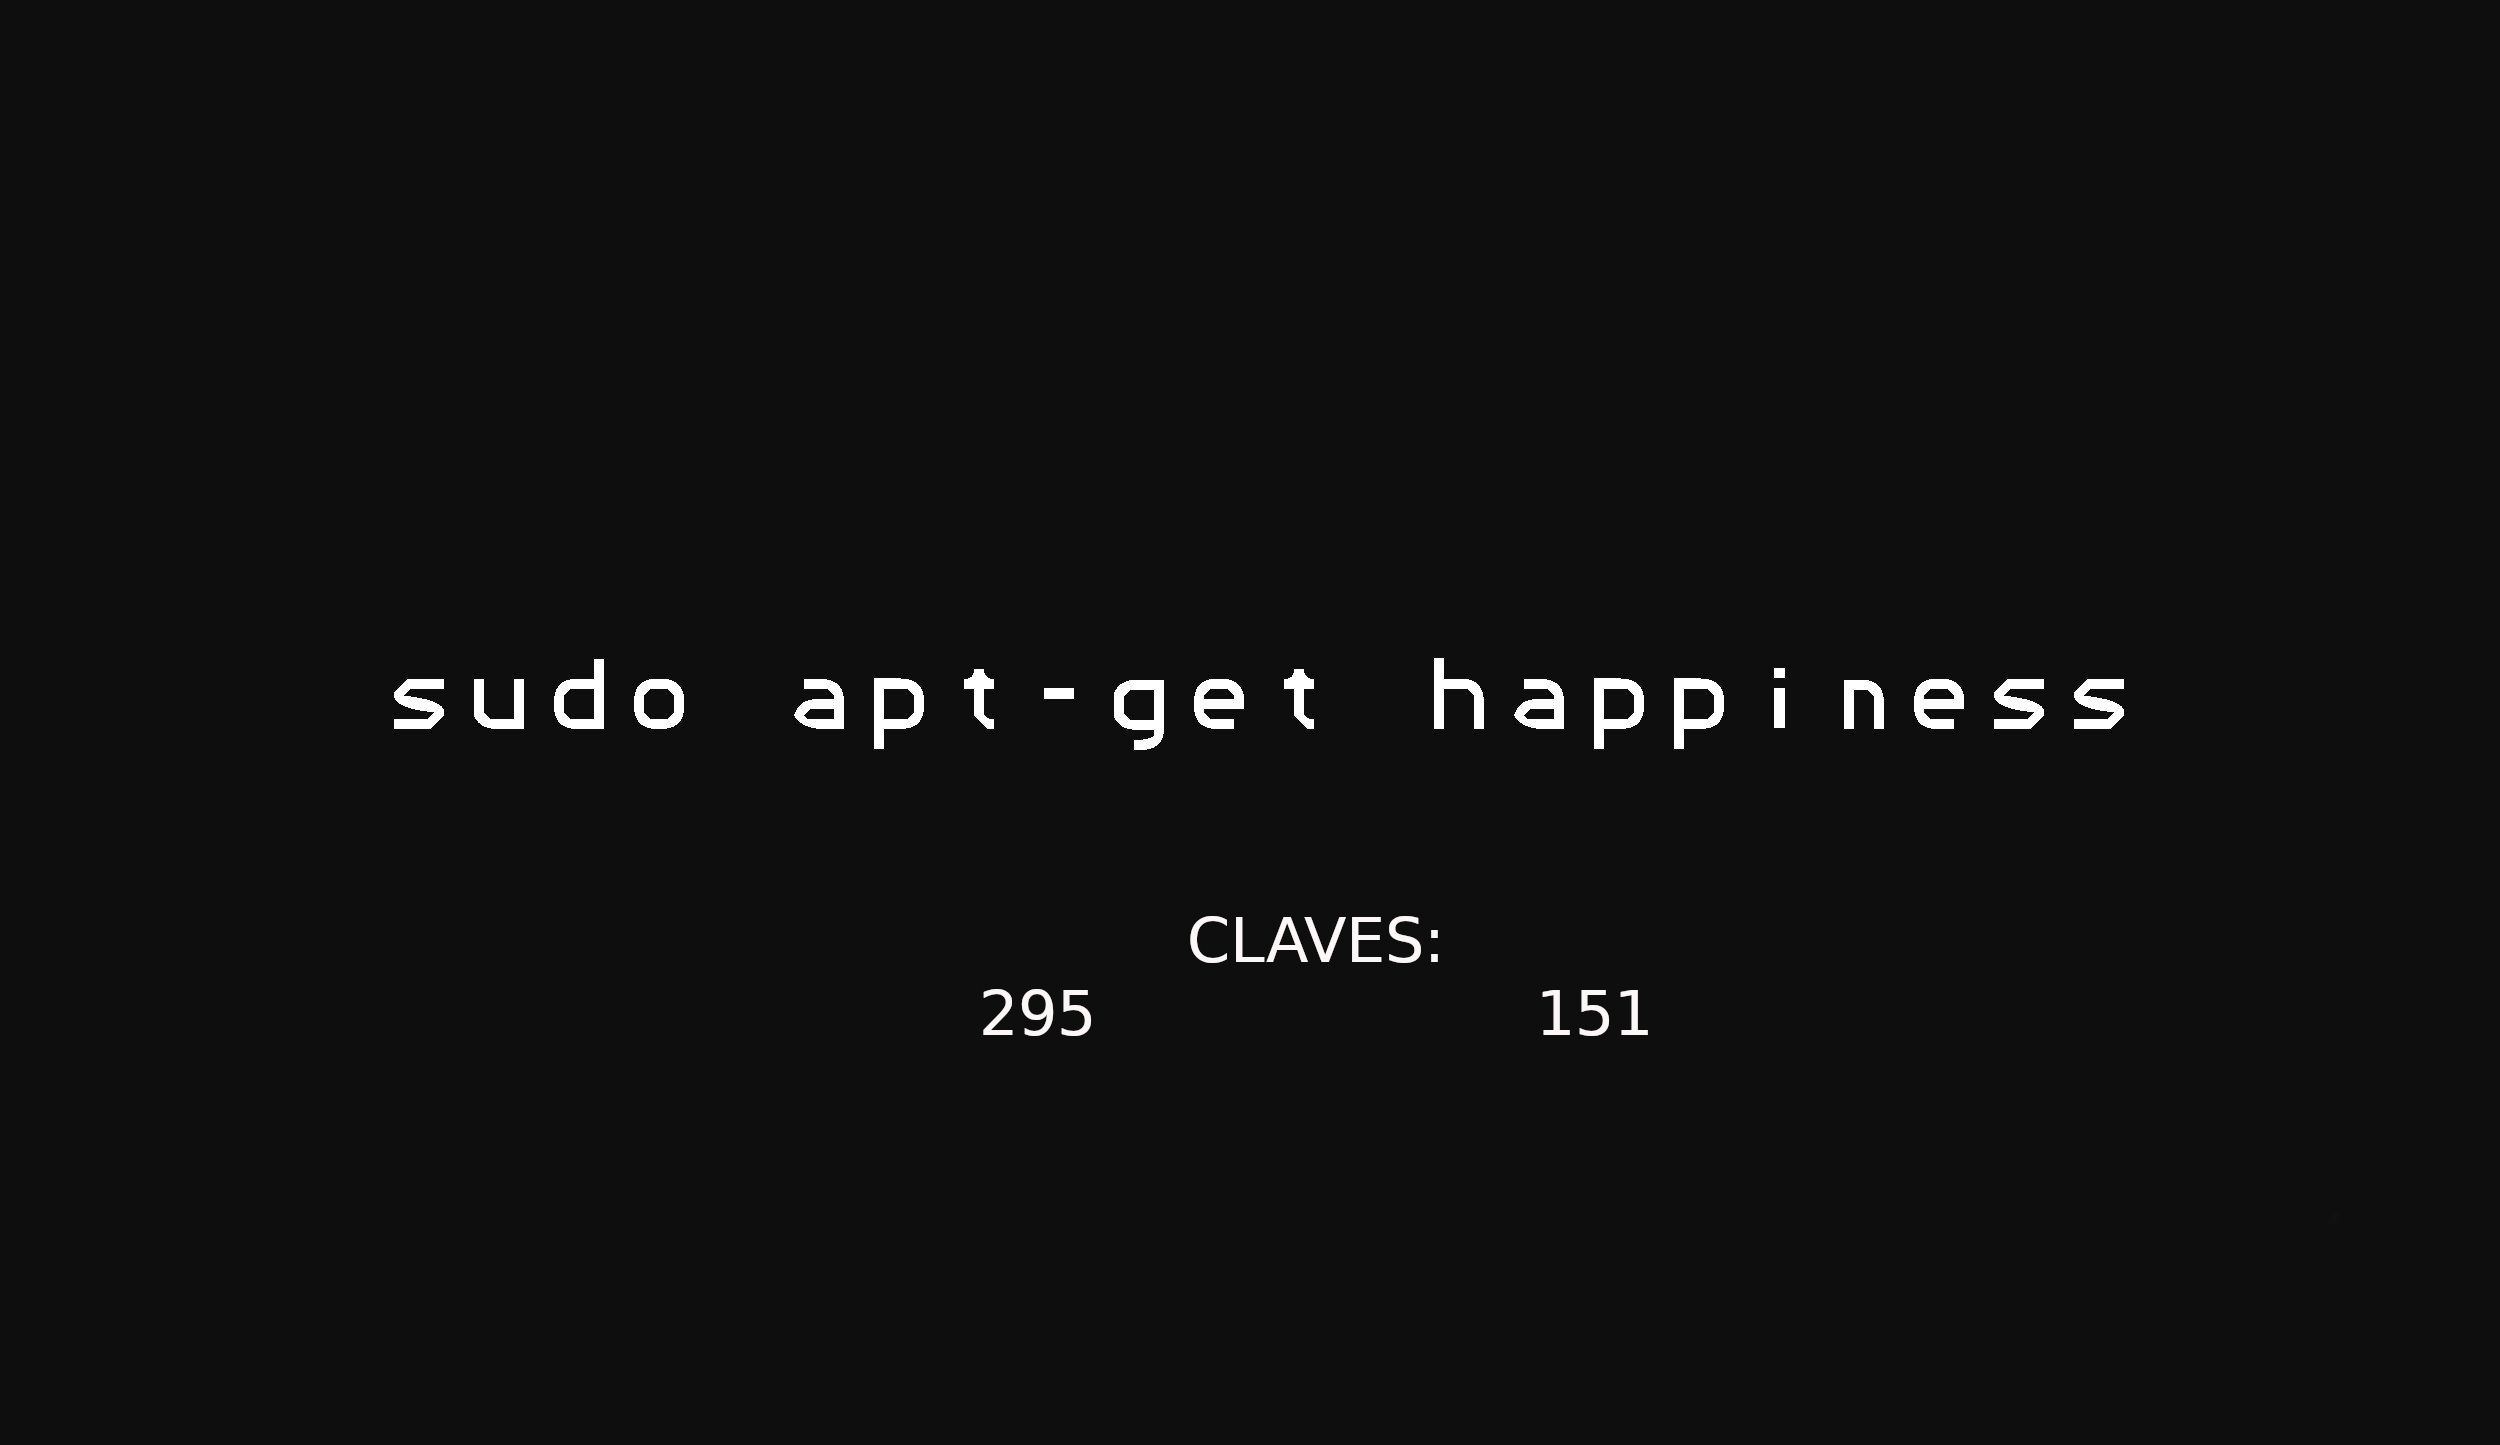
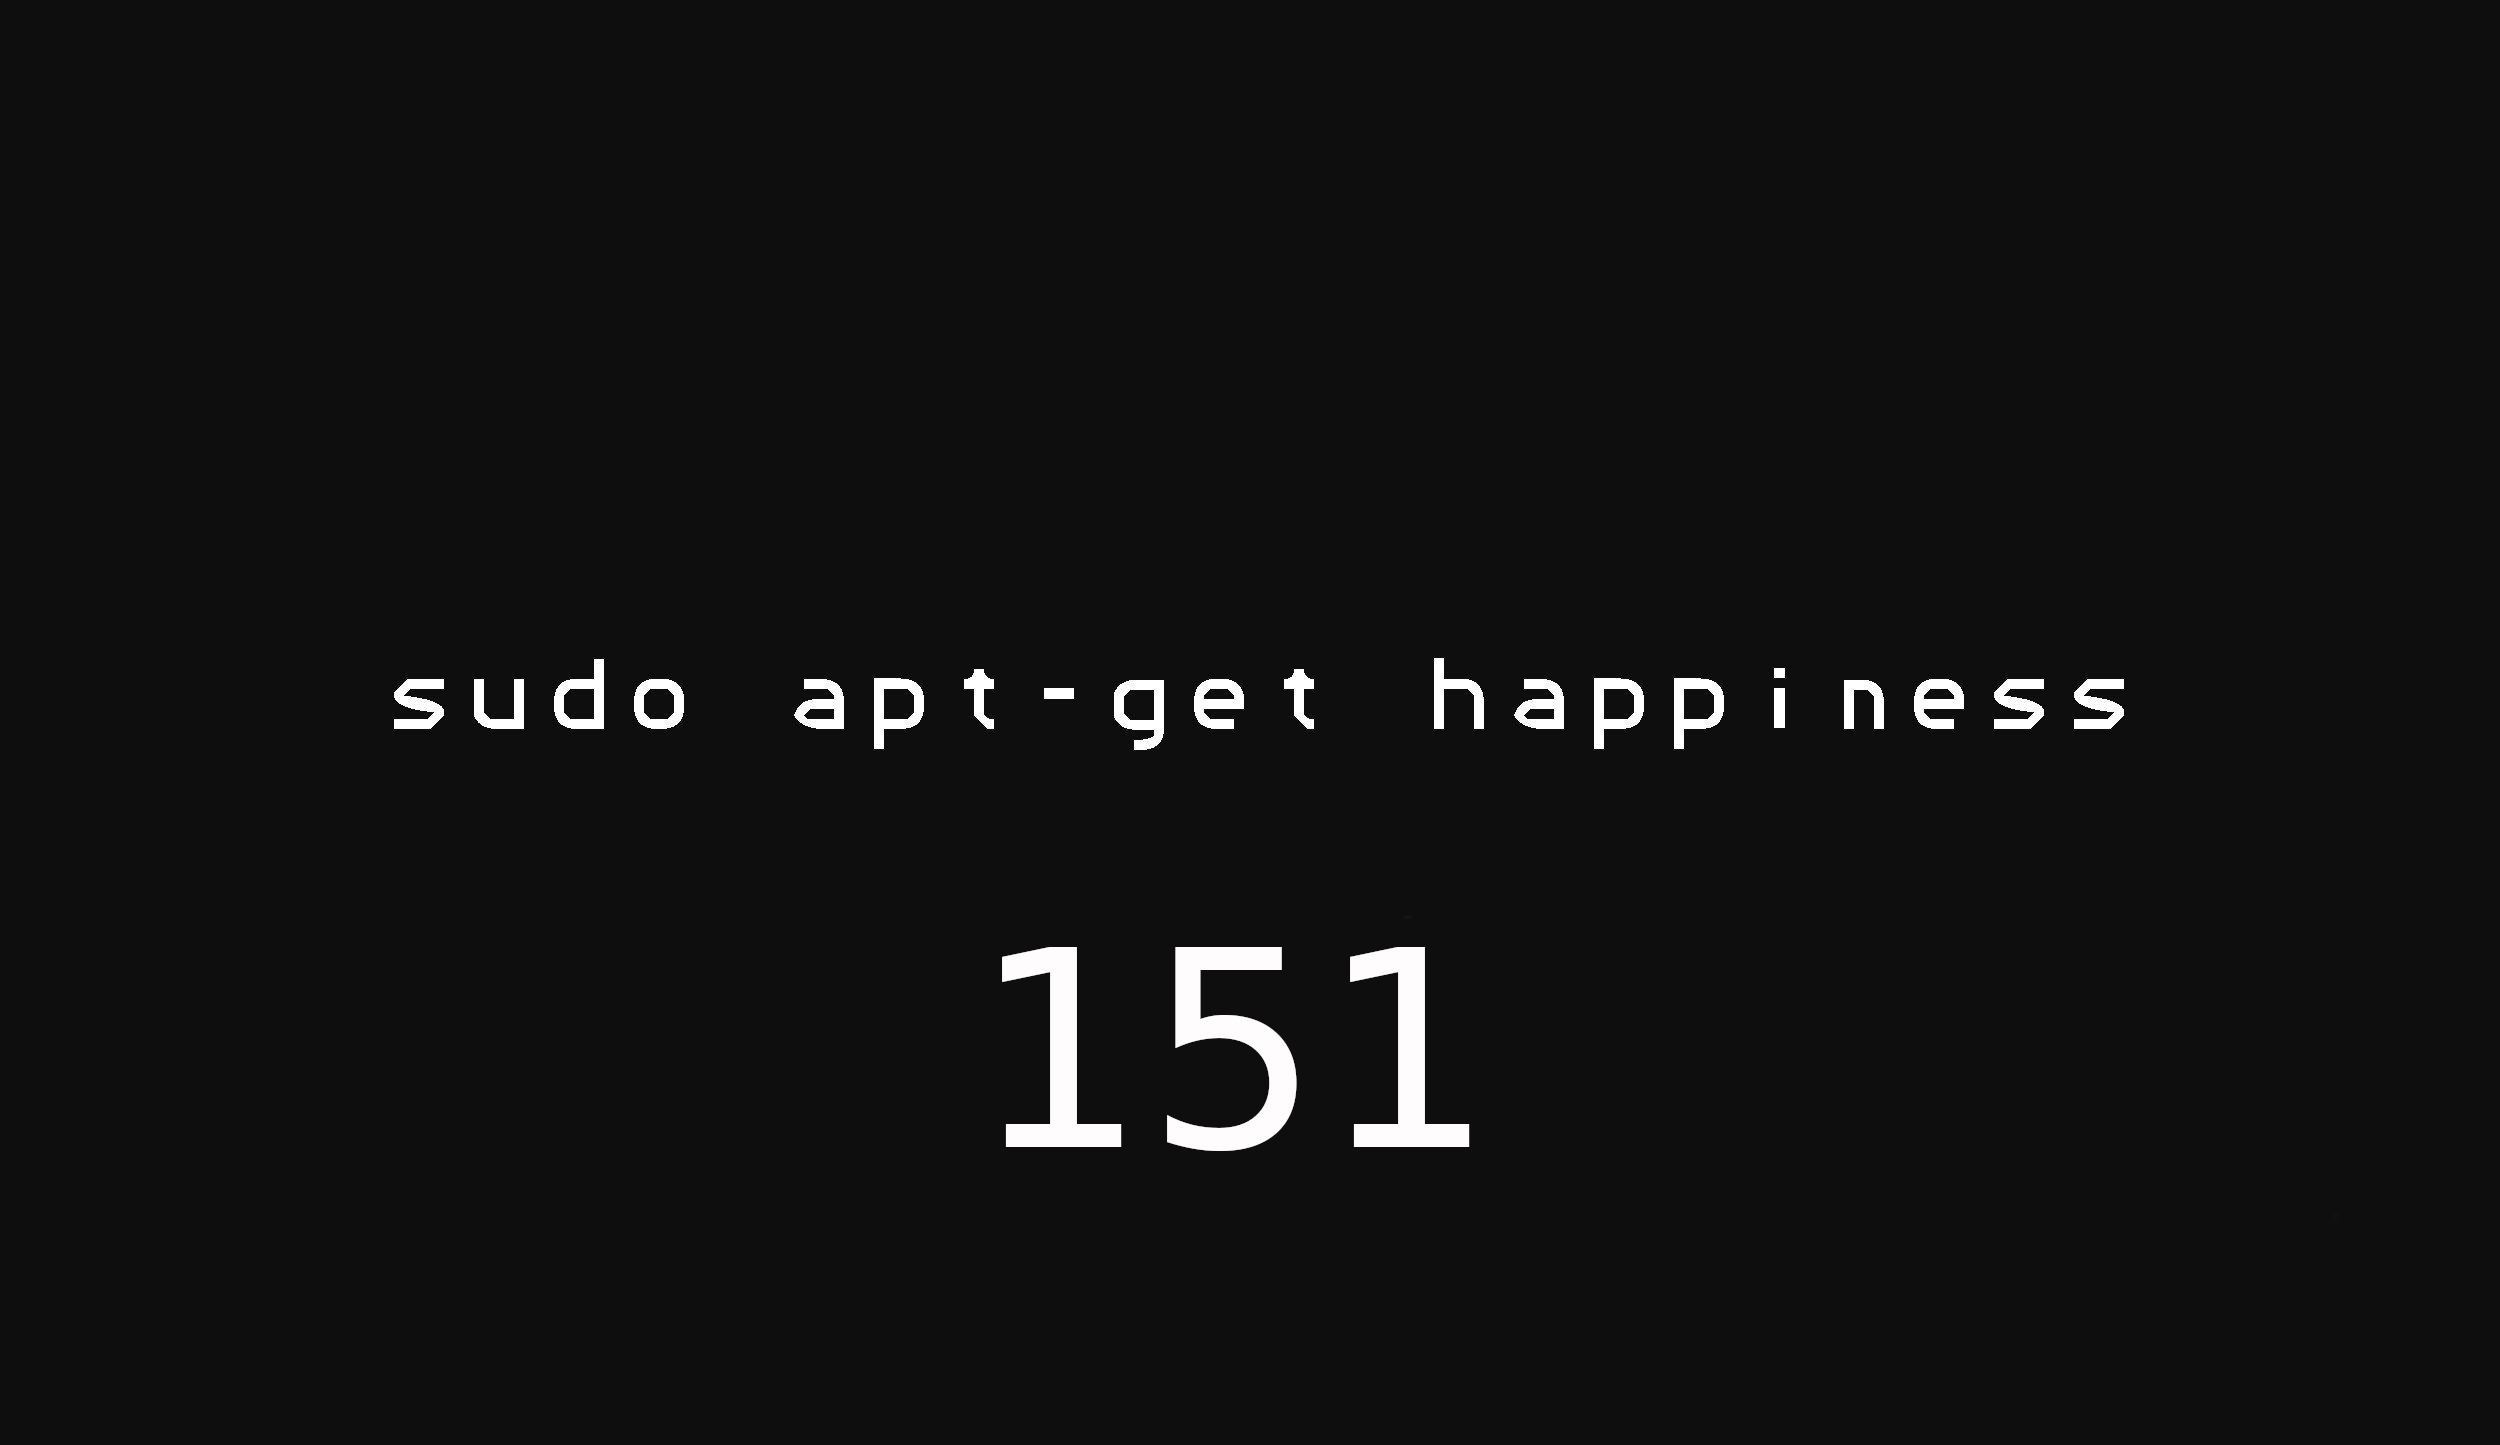
Upload requirements

Changed region(s): [[0.3744, 0.6228, 0.6552, 0.8097]]

diff --git a/app.py b/app.py
@@ -33,32 +33,21 @@ if submit_m1:
         st.balloons()
         l, c, r = st.columns(3)
         c.success("🎉 AQUÍ ESTÁ A TÚA CLAVE!")
-
+        c.info('##   🎉🎉 295 ')
         st.image('images/puzzle.png', width=720)
+    else:
+        st.error('# SEGUIR PROBANDO')
 st.write('## Segunda proba')
-left, right = st.columns(2)
 
-right.info('MISIÓN 1: ' + r'$x = \frac{p + g}{2}$')
-right.write(r'$p = $Total de xente no crebacabezas')
-right.write(r'$w = $Total de mulleres no crebacabezas')
-right.write(r'$m = $Total homes no crebacabezas')
-right.write(r'$b = $Total de nenos no crebacabezas')
-right.write(r'$g = $Total de nenas no crebacabezas')
+form_m2 = st.form('template_2')
+resp1 = '7'
 
-form = left.form('template_form2')
+q1 = form_m2.text_input("¿Cantos símbolos de Planeswalker hai no crebacabezas?")
 
-q1 = form.text_input("Misión 1")
-q2 = form.text_input("¿Cantos símbolos de Planeswalker hai no crebacabezas?")
-q3 = form.text_input('Con los dedos de las manos y los dedos de los pies ....')
-
-submit = form.form_submit_button('DÁME A CLAVE')
-
-resp1 = '22'
-resp2 = '7'
-resp3 = '23'
+submit = form_m2.form_submit_button('DÁME A CLAVE')
 
 if submit:
-    if q1 == resp1 and q2 == resp2 and q3 == resp3:
+    if q1 == resp1:
 
         st.balloons()
         l, c, r = st.columns(3)
